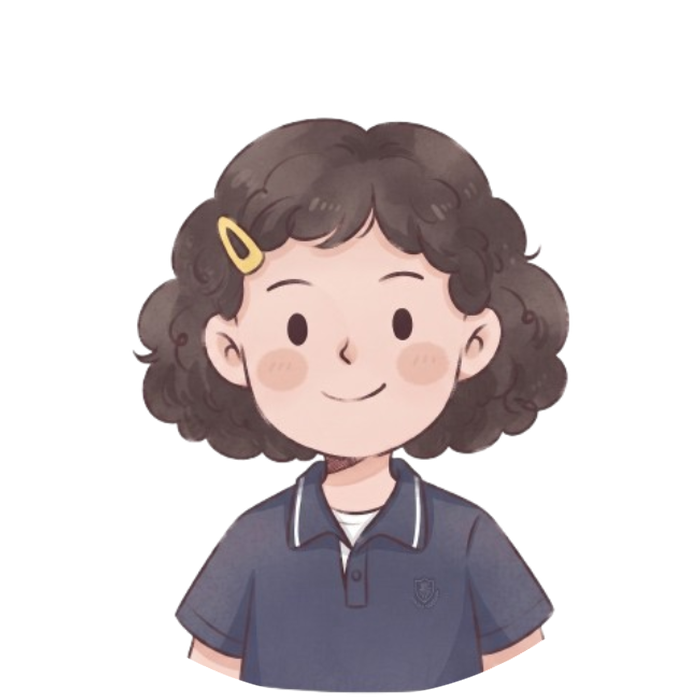
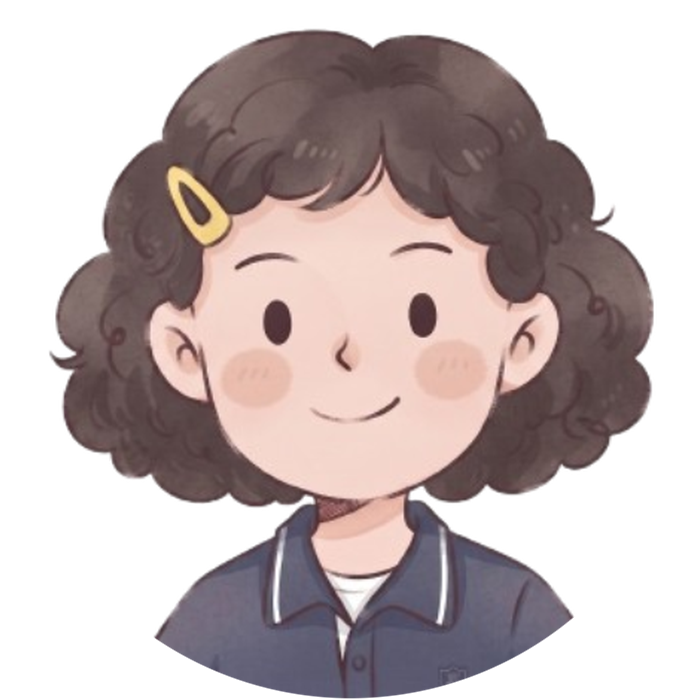
Enlarge the character head pictures to match Evan.
The new crops are stored as supplied, and the head links use a new cache name.

diff --git a/game/clue-hunt/index.html b/game/clue-hunt/index.html
@@ -173,10 +173,10 @@
 <script>
 (function () {
   var portraits = {
-    evan: { bust: "after-school-club/art/players/evan.png?v=3", head: "after-school-club/art/players/heads/evan.png?v=7" },
-    lily: { bust: "after-school-club/art/players/lily.png?v=3", head: "after-school-club/art/players/heads/lily.png?v=7" },
-    ben: { bust: "after-school-club/art/players/ben.png?v=3", head: "after-school-club/art/players/heads/ben.png?v=7" },
-    hannah: { bust: "after-school-club/art/players/hannah.png?v=3", head: "after-school-club/art/players/heads/hannah.png?v=7" }
+    evan: { bust: "after-school-club/art/players/evan.png?v=3", head: "after-school-club/art/players/heads/evan.png?v=8" },
+    lily: { bust: "after-school-club/art/players/lily.png?v=3", head: "after-school-club/art/players/heads/lily.png?v=8" },
+    ben: { bust: "after-school-club/art/players/ben.png?v=3", head: "after-school-club/art/players/heads/ben.png?v=8" },
+    hannah: { bust: "after-school-club/art/players/hannah.png?v=3", head: "after-school-club/art/players/heads/hannah.png?v=8" }
   };
   var playerId = "";
   try {
@@ -306,7 +306,7 @@
       var portrait = portraits[playerId];
       person = { id: "you", name: "You", head: portrait.head, art: portrait.bust };
     } else if (person && person.head.indexOf("?") < 0) {
-      person = { id: person.id, name: person.name, head: person.head + "?v=7", art: person.art };
+      person = { id: person.id, name: person.name, head: person.head + "?v=8", art: person.art };
     }
     var row = document.createElement("div");
     row.className = "talk-line " + rowClass;

diff --git a/game/after-school-club/club.js b/game/after-school-club/club.js
@@ -3,10 +3,10 @@
 
   var KEY = 'asc-player-v1';
   var PLAYERS = {
-    evan: { name: 'Evan', src: 'art/players/heads/evan.png?v=7' },
-    lily: { name: 'Lily', src: 'art/players/heads/lily.png?v=7' },
-    ben: { name: 'Ben', src: 'art/players/heads/ben.png?v=7' },
-    hannah: { name: 'Hannah', src: 'art/players/heads/hannah.png?v=7' }
+    evan: { name: 'Evan', src: 'art/players/heads/evan.png?v=8' },
+    lily: { name: 'Lily', src: 'art/players/heads/lily.png?v=8' },
+    ben: { name: 'Ben', src: 'art/players/heads/ben.png?v=8' },
+    hannah: { name: 'Hannah', src: 'art/players/heads/hannah.png?v=8' }
   };
   var PLACES = { notice: true, hall: true };
 

diff --git a/game/after-school-club/index.html b/game/after-school-club/index.html
@@ -70,7 +70,7 @@
     <h2 class="sr-only">Campus map</h2>
     <div class="map-tools">
       <button type="button" class="who" id="change-character">
-        <img id="who-img" alt="" width="700" height="700" src="art/players/heads/evan.png?v=7"/>
+        <img id="who-img" alt="" width="700" height="700" src="art/players/heads/evan.png?v=8"/>
         <span><strong id="who-name">You</strong><small>Change character</small></span>
       </button>
     </div>
